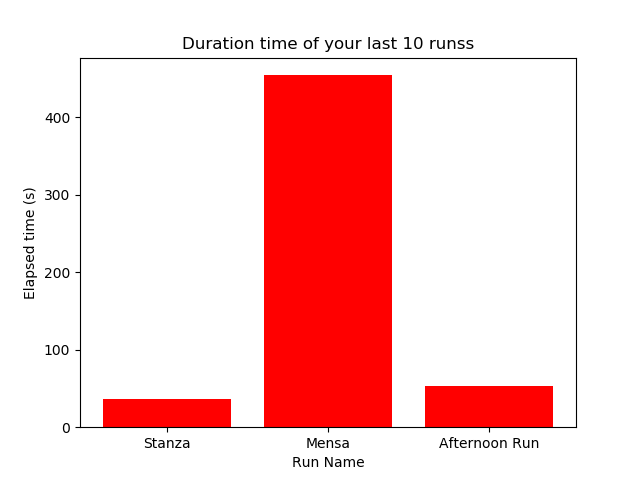
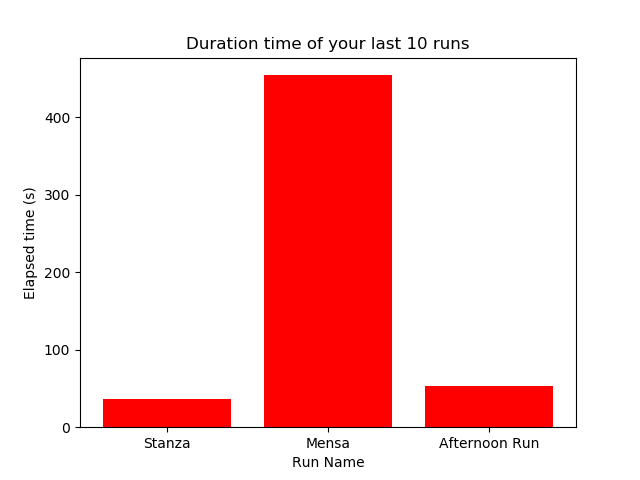
Fixed relative addressing issues. NB: Now need to start the application from OUTSIDE the monolith folder

Changed region(s): [[0.2812, 0.0625, 0.75, 0.125]]

diff --git a/monolith/templates/statistics.html b/monolith/templates/statistics.html
@@ -25,7 +25,8 @@
              {% if not distance_plot_filename %}
                 <p> Distance plot could not be generated!</p>
                 {% else %}
-                <img src="{{url_for(plots_directory, filename=distance_plot_filename)}}"/>
+
+                 <img src="{{url_for(plots_html_directory, filename=distance_plot_filename)}}" />
              {% endif %}
 
             <br>
@@ -36,7 +37,7 @@
              {% if not avg_speed_plot_filename %}
                   <p> Average speed plot could not be generated!</p>
                 {% else %}
-                    <img src="{{url_for(plots_directory, filename=avg_speed_plot_filename)}}"/>
+                    <img src="{{url_for(plots_html_directory, filename=avg_speed_plot_filename)}}"/>
              {% endif %}
 
             <br>
@@ -47,7 +48,7 @@
              {% if not avg_heartrate_plot_filename %}
                   <p> Average heartrates' plot could not be generated!</p>
             {% else %}
-                <img src="{{url_for(plots_directory, filename=avg_heartrate_plot_filename)}}"/>
+                <img src="{{url_for(plots_html_directory, filename=avg_heartrate_plot_filename)}}"/>
              {% endif %}
 
             <br>
@@ -58,7 +59,7 @@
              {% if not elapsed_times_plot_filename %}
                   <p> Runs' duration plot could not be generated!</p>
                 {% else %}
-                <img src="{{url_for(plots_directory, filename=elapsed_times_plot_filename)}}"/>
+                <img src="{{url_for(plots_html_directory, filename=elapsed_times_plot_filename)}}"/>
              {% endif %}
 
             <br>
@@ -69,7 +70,7 @@
             {% if not elevation_gain_filename %}
                   <p> Elevation gain plot could not be generated!</p>
             {% else %}
-                <img src="{{url_for(plots_directory, filename=elevation_gain_filename)}}"/>
+                <img src="{{url_for(plots_html_directory, filename=elevation_gain_filename)}}"/>
             {% endif %}
 
 

diff --git a/monolith/views/statistics.py b/monolith/views/statistics.py
@@ -14,7 +14,8 @@ import matplotlib.pyplot as plt
 
 statistics = Blueprint('statistics', __name__)
 
-PLOTS_DIRECTORY = "static"
+PLOTS_DIRECTORY = "monolith/static"
+PLOTS_HTML_DIRECTORY = "static"
 PLOTS_FORMAT = ".png"
 
 
@@ -55,11 +56,14 @@ def stats():
                 #saving into lists completed, now let's get plotting!
                 #need to save plots on disk before actually showing them in the page!
 
+                #now let's just reverse the order before plotting so as to have the most recent on the right-hand side
+                #reverse acts in place, no need to assign to a new variable!
+
                 x_label = "Run Name"
                 distance_plot_filename = create_plot(runner_id, run_names, distances, x_label, "Distance (m)", "Distance of your last 10 runs", 'distance', 'blue', 1)
                 avg_speed_plot_filename = create_plot(runner_id, run_names, average_speeds, x_label, "Average Speed (Km/h)", "Average speed of your last 10 runs", 'average_speed', 'g', 2)
                 avg_heartrate_plot_filename = create_plot(runner_id, run_names, average_heartrates, x_label, "Heartrate (hrpm)", "Average Heartrate of your last 10 runs", 'average_heartrate', 'orange', 2)
-                elapsed_times_plot_filename = create_plot(runner_id, run_names, elapsed_times, x_label, "Elapsed time (s)", "Duration time of your last 10 runss", 'elapsed_time', 'red', 2)
+                elapsed_times_plot_filename = create_plot(runner_id, run_names, elapsed_times, x_label, "Elapsed time (s)", "Duration time of your last 10 runs", 'elapsed_time', 'red', 2)
                 elevation_gain_filename = create_plot(runner_id, run_names, total_elevation_gains, x_label, "Total Elevation Gain (m)", "Total elevation gain of your last 10 runs", 'elevation_gain', 'brown', 2)
 
         else:
@@ -72,7 +76,9 @@ def stats():
             elapsed_times_plot_filename = None
             elevation_gain_filename = None
 
-    return render_template("statistics.html", runs=runs, plots_directory=PLOTS_DIRECTORY, distance_plot_filename=distance_plot_filename,
+
+
+    return render_template("statistics.html", runs=runs, plots_html_directory=PLOTS_HTML_DIRECTORY, distance_plot_filename=distance_plot_filename,
         avg_speed_plot_filename=avg_speed_plot_filename, avg_heartrate_plot_filename=avg_heartrate_plot_filename,
         elapsed_times_plot_filename=elapsed_times_plot_filename, elevation_gain_filename=elevation_gain_filename,
         runner_id=runner_id)
@@ -84,7 +90,7 @@ def stats():
 def create_plot(runner_id, x_values, y_values, xlabel, ylabel, title, filename, color, plot_type):
     filename_output = None
 
-    if len(y_values) > 0:
+    if  len(y_values) > 0:
         if plot_type == 1:
             plt.plot(x_values, y_values, color=color)
         elif plot_type == 2:
